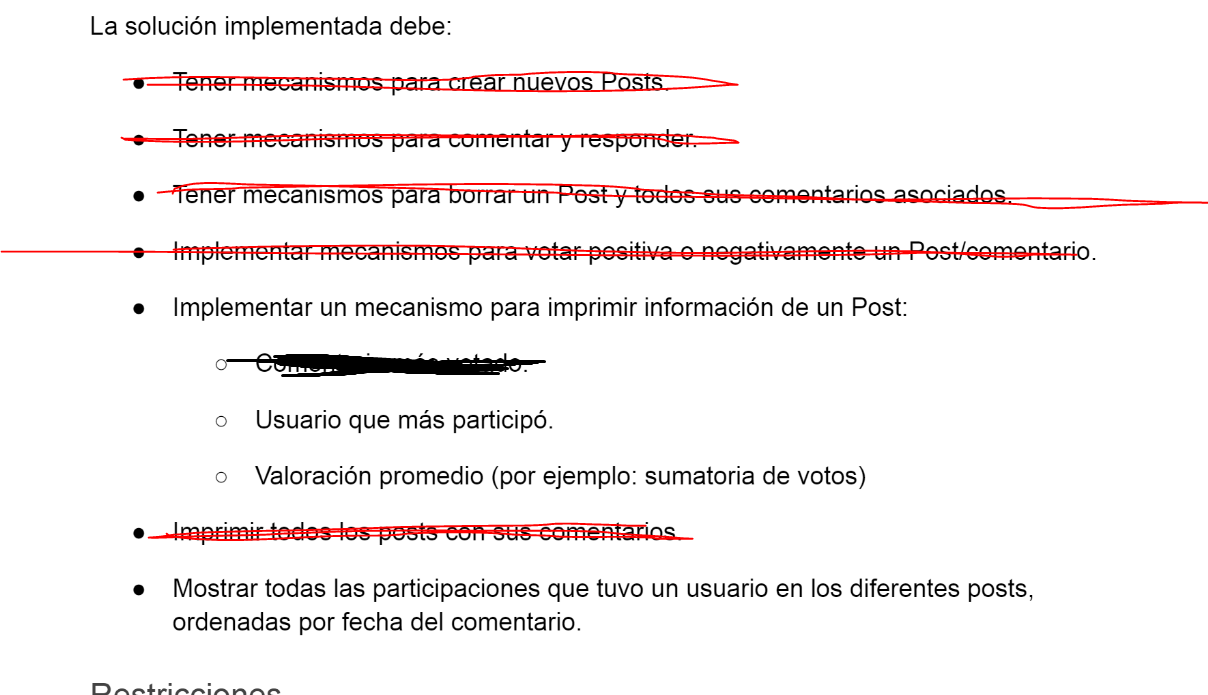
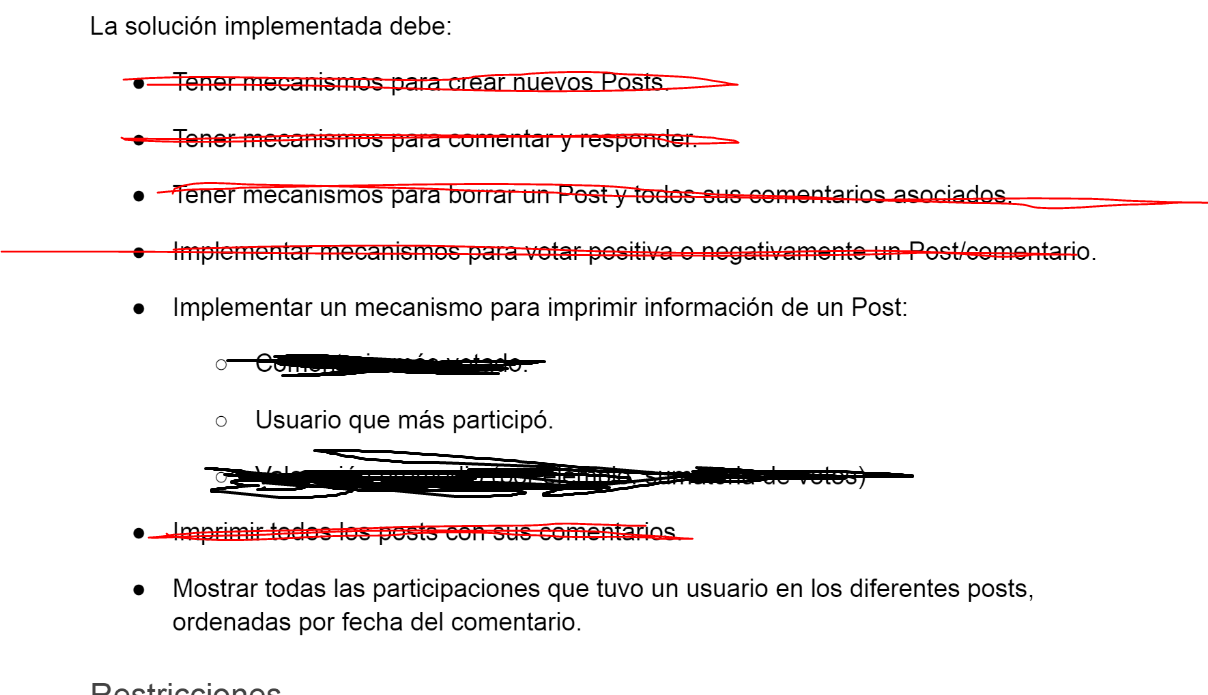
Add files via upload

Changed region(s): [[0.1838, 0.6345, 0.7657, 0.7252]]

diff --git a/arbolpruebas.hpp b/arbolpruebas.hpp
@@ -20,9 +20,10 @@ private:
     void mh(nodo<T>* aux); 
     T menor(nodo<T>* aux); 
     bool esta(nodo<T>* aux, T x);
-
     void printMasVotado(nodo<T>*& p, T post);
     nodo<T>* buscarNodo(nodo<T>* aux, const T& objeto);
+    int cantidadNodos(nodo<T>* aux);
+    int sumaVotos(nodo<T>* aux);
    
 
 public:
@@ -39,6 +40,9 @@ public:
     void Buscar(T x){buscarNodo(raiz, x);}
     void VotarUp(T x);
     void VotarDown(T x);
+    void ValoracionPromedio(T x);
+
+    
 };
 
 
@@ -268,5 +272,35 @@ nodo<T>* uno = buscarNodo(raiz, x);
 uno->info->votarDown();
 }
 
+template <class T> void arbol<T>::ValoracionPromedio(T x){
+    nodo<T>* comentarios = buscarNodo(raiz, x);
+    comentarios = comentarios->izq;
+    int cantnodos = cantidadNodos(comentarios);
+    int votostotales = sumaVotos(comentarios);
+    cout<<"La valoracion promedio de los comentarios del post es: "<<votostotales/cantnodos<<endl;
+}
 
+template <class T>
+int arbol<T>::cantidadNodos(nodo<T>* aux) {
+    if (aux == NULL) {
+        return 0;
+    }
+    
+    int contadorizq = cantidadNodos(aux->izq);    
+    int contadorder = cantidadNodos(aux->der);   
+
+    return 1 + contadorizq + contadorder;
+}
+
+template <class T> int arbol<T>::sumaVotos(nodo<T>* aux) {
+    if (aux != NULL) {
+
+        int sum = aux->info->getVotos(); 
+        sum += sumaVotos(aux->der);
+        sum += sumaVotos(aux->izq);
+
+        return sum;
+    }
+    return 0;  
+}
 

diff --git a/testmain.cpp b/testmain.cpp
@@ -55,7 +55,7 @@ miArbol.AgregarComentario(c4,3,3);
 miArbol.AgregarComentario(c5,3,3);
 miArbol.AgregarComentario(c6,1,2);
 
-//miArbol.VerArbol();
+miArbol.VerArbol();
 
 //para borrar llamo al metodo con el post a borrar
 
@@ -72,14 +72,14 @@ c5.votarUp();
 c5.votarUp();
 
 //miArbol.VerArbol();
-miArbol.ImprimirComentarioMasVotado(p3);
-miArbol.VotarDown(c4);
-miArbol.VotarDown(c4);
+//miArbol.ImprimirComentarioMasVotado(p3);
+//miArbol.VotarDown(c4);
+//miArbol.VotarDown(c4);
 
-miArbol.ImprimirComentarioMasVotado(p3);
+//miArbol.ImprimirComentarioMasVotado(p3);
 
 
-
+miArbol.ValoracionPromedio(p3);
 
 //system("pause");
 

diff --git a/post.hpp b/post.hpp
@@ -3,7 +3,6 @@
 #include <sstream>
 #include <chrono>
 
-
 using namespace std;
 
 class post{
